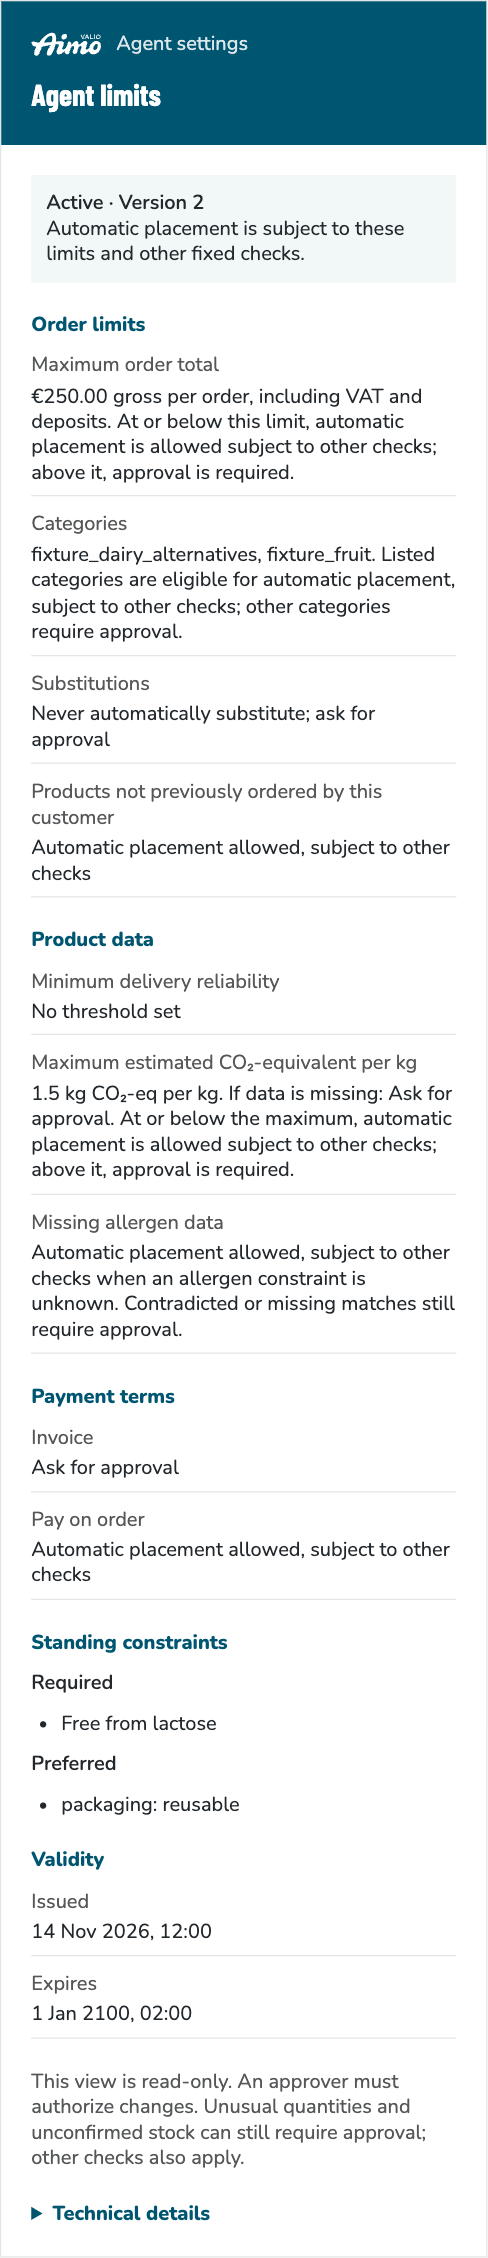
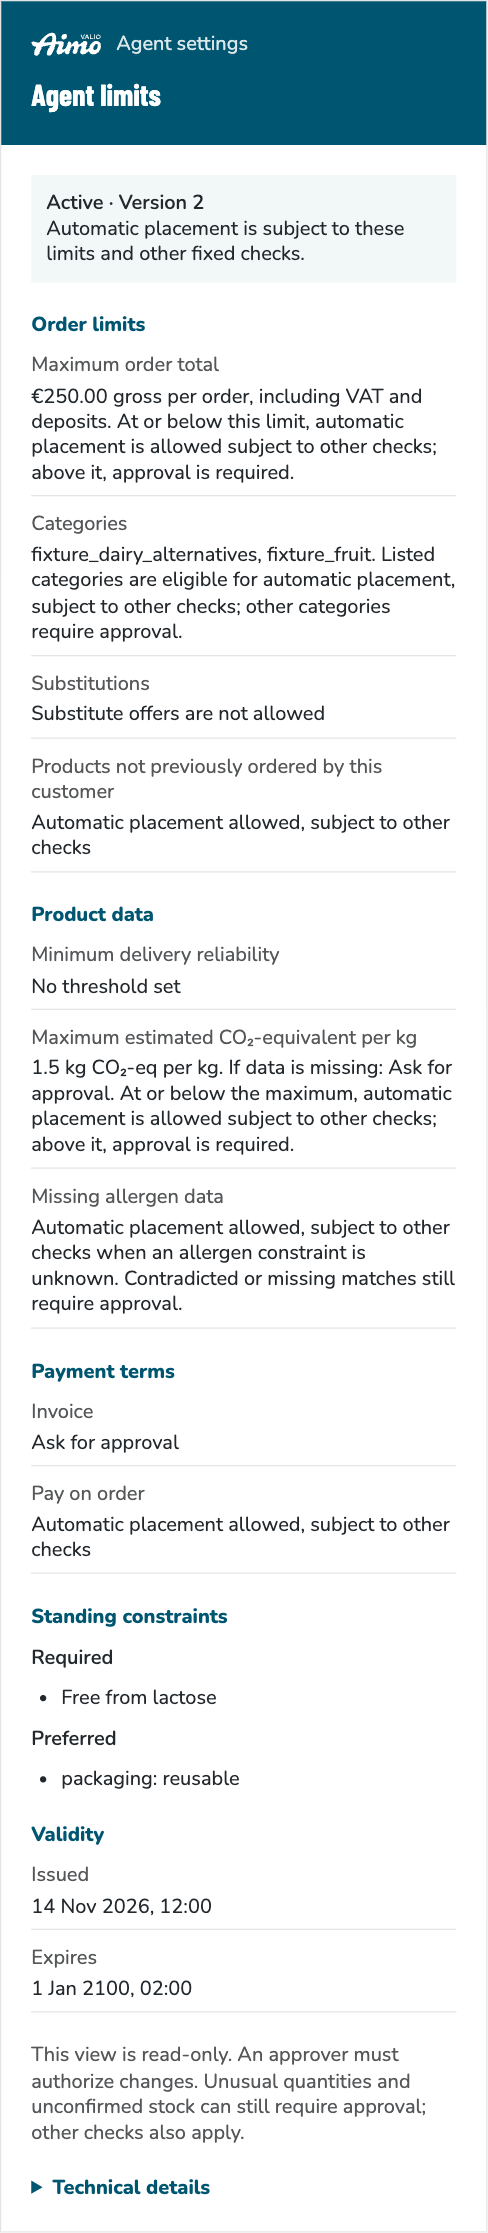
fix(views): refresh mandate retries and clarify disabled substitutes (#31)

diff --git a/contexts/views/src/views/mandate-settings/mandate-settings.ts b/contexts/views/src/views/mandate-settings/mandate-settings.ts
@@ -1,19 +1,13 @@
 import { css, html } from "lit";
 import { unsafeSVG } from "lit/directives/unsafe-svg.js";
-import {
-  parseResult,
-  plainPageUrl,
-  type ViewData,
-  type ViewEntryOf,
-  viewEntry,
-} from "../../shared/bridge.ts";
+import { plainPageUrl, type ViewData, type ViewEntryOf, viewEntry } from "../../shared/bridge.ts";
 import logo from "../../shared/icons/logo-valio-aimo.svg?raw";
 import { base } from "../../shared/styles.ts";
 import { defineView, ViewElement } from "../../shared/view-element.ts";
+import { loadMandate } from "./loader.ts";
 import {
   categoriesText,
   effectiveStatus,
-  isNoCurrentMandate,
   policyText,
   substitutionText,
   thresholdText,
@@ -135,7 +129,7 @@ class MandateSettings extends ViewElement<ViewEntryOf<"mandate-settings">> {
     this.source = null;
     super.connectedCallback();
     this.source = source;
-    if (source !== null) void this.reload();
+    if (source !== null) void this.reload(false);
   }
 
   override disconnectedCallback() {
@@ -155,17 +149,11 @@ class MandateSettings extends ViewElement<ViewEntryOf<"mandate-settings">> {
     );
   }
 
-  private async reload() {
+  private async reload(retry: boolean) {
     const source = this.source;
     if (source === null) return;
     this.state = { kind: "loading" };
-    try {
-      this.state = parseResult(this.entry, await source.load());
-    } catch (error) {
-      this.state = isNoCurrentMandate(error)
-        ? { kind: "empty" }
-        : { kind: "error", message: "Could not load the limits.", plainUrl: null };
-    }
+    this.state = await loadMandate(source, retry);
   }
 
   private header() {
@@ -201,7 +189,7 @@ class MandateSettings extends ViewElement<ViewEntryOf<"mandate-settings">> {
                   <h3>Agent limits could not be loaded</h3>
                   <p>Try again or open the limits page.</p>
                   <div class="actions">
-                    <button class="btn primary" @click=${() => this.reload()}>Try again</button
+                    <button class="btn primary" @click=${() => this.reload(true)}>Try again</button
                     ><a
                       class="btn ghost"
                       href=${plainPageUrl("mandate-settings", document.querySelector<HTMLMetaElement>('meta[name="tt-base-url"]')?.content ?? location.origin) ?? "/views/mandate-settings"}

diff --git a/contexts/views/src/views/mandate-settings/loader.test.ts b/contexts/views/src/views/mandate-settings/loader.test.ts
@@ -1,0 +1,46 @@
+import { expect, test } from "bun:test";
+import { StoredMandateSchema } from "@app/contract";
+import type { Source } from "../../shared/bridge.ts";
+import mandateFixture from "../../../fixtures/mandate-settings/done.json";
+import { loadMandate } from "./loader.ts";
+
+const mandate = StoredMandateSchema.parse(mandateFixture);
+
+test("retry fetches a fresh mandate after an invalid initial host result", async () => {
+  const initial = Promise.resolve({ invalid: true });
+  let loads = 0;
+  const calls: Array<{ tool: string; args: Record<string, unknown> }> = [];
+  const source: Source = {
+    load: () => {
+      loads++;
+      return initial;
+    },
+    call: async (tool, args) => {
+      calls.push({ tool, args });
+      return mandate;
+    },
+  };
+
+  expect((await loadMandate(source)).kind).toBe("error");
+  expect(await loadMandate(source, true)).toEqual({ kind: "done", data: mandate });
+  expect(loads).toBe(1);
+  expect(calls).toEqual([{ tool: "get_mandate", args: {} }]);
+});
+
+test("initial and retry failures distinguish current mandate 404 from errors", async () => {
+  for (const retry of [false, true]) {
+    for (const [message, kind] of [
+      ["GET /api/mandates/current answered 404.", "empty"],
+      ["GET /api/mandates/current answered 500.", "error"],
+      ["GET /other answered 404.", "error"],
+    ] as const) {
+      const fail = async () => {
+        throw new Error(message);
+      };
+      const source: Source = { load: fail, call: fail };
+      expect((await loadMandate(source, retry)).kind).toBe(kind);
+    }
+    const invalid: Source = { load: async () => ({}), call: async () => ({}) };
+    expect((await loadMandate(invalid, retry)).kind).toBe("error");
+  }
+});

diff --git a/contexts/views/src/views/mandate-settings/loader.ts b/contexts/views/src/views/mandate-settings/loader.ts
@@ -1,0 +1,13 @@
+import { parseResult, type Source, viewEntry } from "../../shared/bridge.ts";
+import { isNoCurrentMandate } from "./presentation.ts";
+
+export async function loadMandate(source: Source, retry = false) {
+  try {
+    const result = retry ? await source.call("get_mandate", {}) : await source.load();
+    return parseResult(viewEntry("mandate-settings"), result);
+  } catch (error) {
+    return isNoCurrentMandate(error)
+      ? { kind: "empty" as const }
+      : { kind: "error" as const, message: "Could not load the limits.", plainUrl: null };
+  }
+}

diff --git a/contexts/views/src/views/mandate-settings/presentation.test.ts b/contexts/views/src/views/mandate-settings/presentation.test.ts
@@ -51,7 +51,6 @@ test("category scope distinguishes all, none and literal codes", () => {
 test("policy and missing data describe approval without promising placement", () => {
   expect(policyText("ask")).toBe("Ask for approval");
   expect(policyText("auto")).toContain("subject to other checks");
-  expect(substitutionText("never")).toContain("Never automatically substitute");
   expect(substitutionText("ask")).toBe(policyText("ask"));
   expect(substitutionText("auto")).toBe(policyText("auto"));
   expect(thresholdText(null, String)).toBe("No threshold set");

diff --git a/contexts/views/src/views/mandate-settings/presentation.ts b/contexts/views/src/views/mandate-settings/presentation.ts
@@ -18,9 +18,7 @@ export function policyText(policy: "auto" | "ask") {
 }
 
 export function substitutionText(policy: MandateLimits["substitutions"]) {
-  return policy === "never"
-    ? "Never automatically substitute; ask for approval"
-    : policyText(policy);
+  return policy === "never" ? "Substitute offers are not allowed" : policyText(policy);
 }
 
 export function thresholdText(
